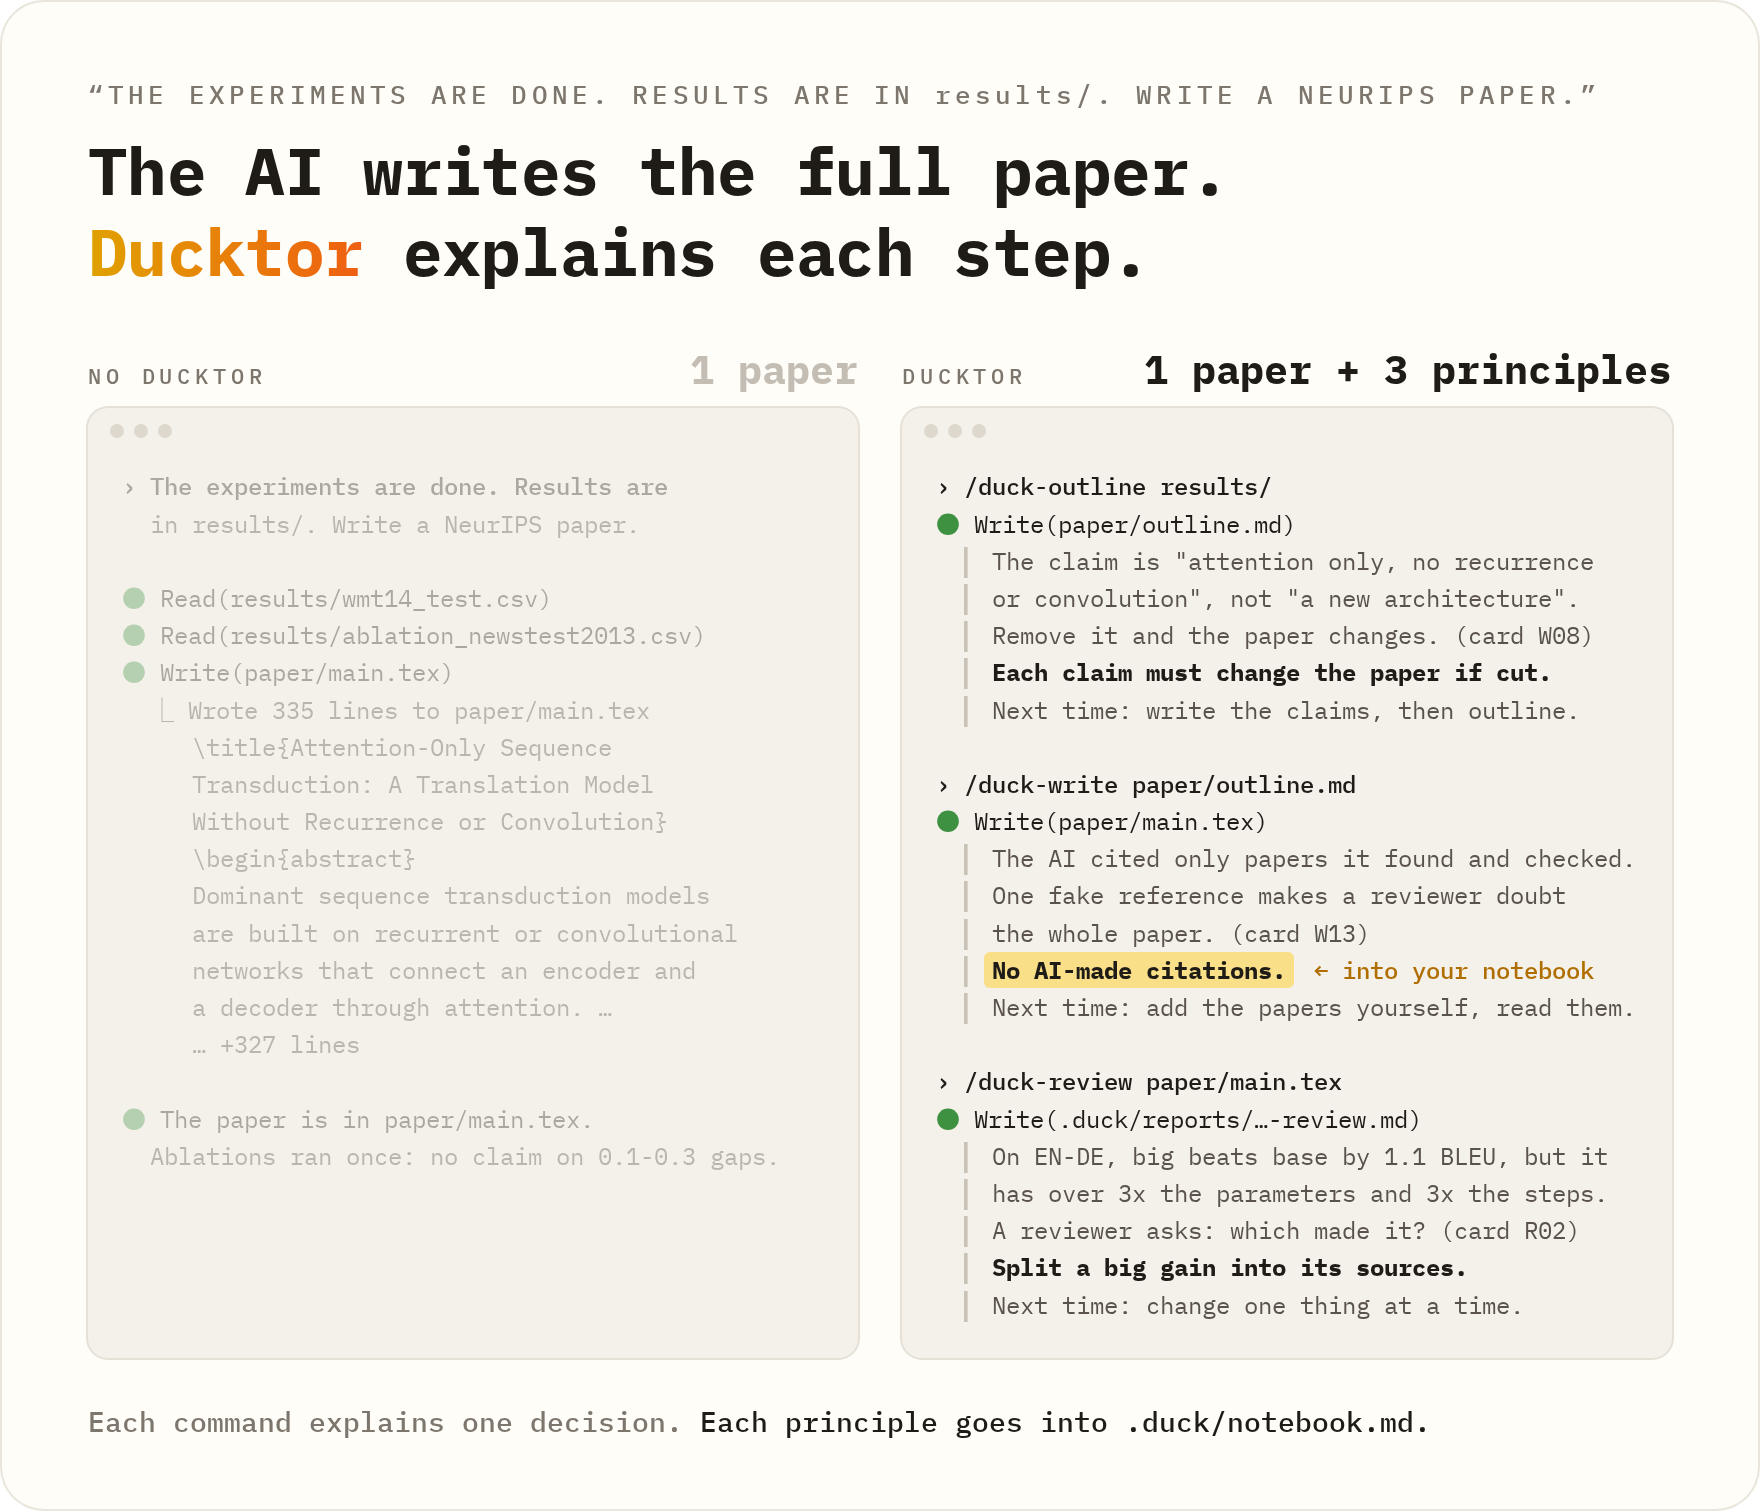
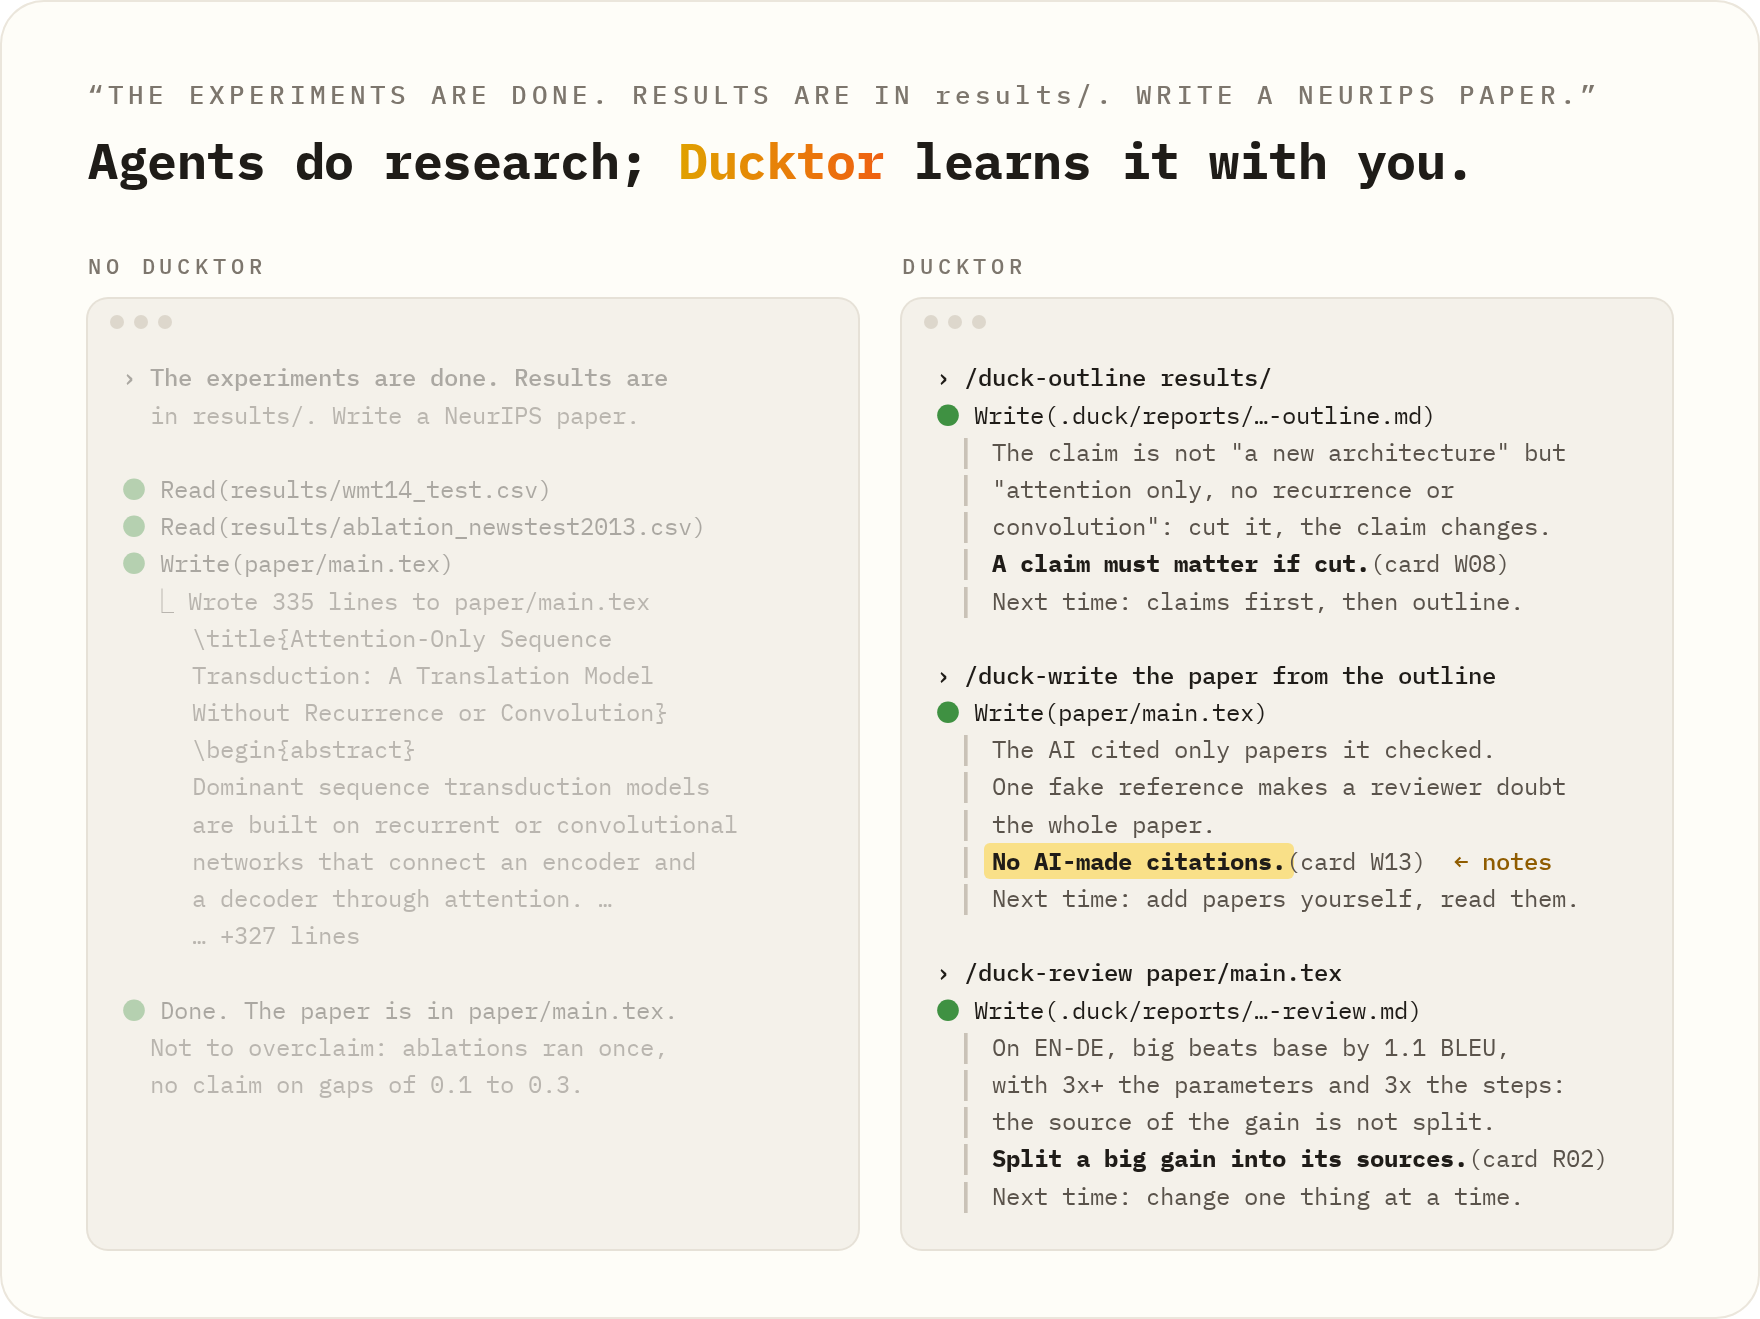
English demo and before/after picture redone from the 11-02 sources (anim-v5, ba-v5 with English text); README.en alt texts follow

diff --git a/i18n/README.en.md b/i18n/README.en.md
@@ -24,12 +24,12 @@
 </p>
 
 <p align="center">
-  <img src="../assets/demo.webp" width="880" alt="An illustration, not a screen recording. Two terminals get the same task: “The experiments are done. Results are in results/. Write a NeurIPS paper.” On the left, there is no Ducktor. The AI reads the results, writes paper/main.tex, and says that it is done. It adds that the ablations ran once, so it made no claim on gaps of 0.1 to 0.3. You get a paper. On the right, Ducktor is installed, but it is not turned on in this project. After the same work, you type /duck and see the menu. Then you type “/duck Can you tell me what to learn here?” Ducktor uses /duck-learn (look back) for this. It asks which step you decided, and you skip the question. Then it tells you the goal, the result, and what a top advisor would check. How it was written: the AI chose the 3 claims; write 1 to 3 claims before the paper (card W01). How to write it well: the AI drew no conclusion on gaps of 0.1 to 0.3; match your words to your evidence (card W11). How to convince a reviewer: on EN-DE, base beats MoE by only 1.3 BLEU; a gap must be larger than seed variation (card E05). Ducktor was not on, so there is no decision log. From the paper, the AI decided the claims, the wording, and the baselines. Ducktor saves the 3 principles to .duck/notebook.md.">
+  <img src="../assets/demo.webp" width="880" alt="An illustration, not a screen recording. Two terminals get the same task: “The experiments are done; results are in results/. Write it up as a NeurIPS paper.” On the left, without Ducktor, the AI quickly writes paper/main.tex and says it is done; it adds that, not to overclaim, the ablations ran once, so gaps of 0.1 to 0.3 get no conclusion. You get a paper. On the right, you first send /duck on to turn Ducktor on in this project: everyday work also gets the why and a decision log, and results are checked before they go into the paper. Then the same request. Ducktor reads the results, says it will write with /duck-write, and first asks: the ablations ran once and the 0.1 to 0.3 gaps were not compared with seed variation; add seeds first, or write first? You answer “You decide.” After writing, it explains why: write first, the ablations report numbers and draw no conclusion, so noise is not called a finding; each of the three claims maps to a section a reviewer can check. The decision line records three choices, all made by the AI. Then /duck-learn: it asks which step you decided and which you would redo; you skip. It gives the goal and what happened; what a top advisor checks is that a gap must beat seed variation (card E05, a built-in Ducktor card, not a paper), and the ablations ran once; it lists the judgments left to the AI, says you can ask to decide next time, and gives the next steps. The look-back goes into .duck/reports/ and the principle into the notebook. Last, /duck-why on the intro step: the part most worth learning is paragraph 2, which says what makes translation itself hard before giving the method, and maps each difficulty to a module (self-attention, positional encoding). Widom, Tips for Writing Technical Papers: the intro must say why it is hard. The principle “Map each difficulty to a module.” goes into the notebook, with what to do first next time. It ends by noting that the account of how it was done is inferred from the files and the conversation record.">
 </p>
 
 <p align="center">
   <sub><a href="../README.md">简体中文</a> · English</sub><br>
-  <sub>This file is a translation of the Chinese README. If the two files are different, the Chinese file is correct. The rules, the commands, and the experience cards are in Chinese, and we tested Ducktor mainly in Chinese. The English animation and picture are an earlier version than the Chinese ones.</sub>
+  <sub>This file is a translation of the Chinese README. If the two files are different, the Chinese file is correct. The rules, the commands, and the experience cards are in Chinese, and we tested Ducktor mainly in Chinese.</sub>
 </p>
 
 ---
@@ -57,7 +57,7 @@ The idea comes from <a href="https://en.wikipedia.org/wiki/Rubber_duck_debugging
 ## The core experience: before vs. after
 
 <p align="center">
-  <img src="../assets/before-after.png" width="880" alt="An illustration, not a screen recording. The same request: “The experiments are done. Results are in results/. Write a NeurIPS paper.” Without Ducktor, the AI reads the results and writes paper/main.tex. It says that the ablations ran once, so it made no claim on gaps of 0.1 to 0.3. You get a paper. With Ducktor, you use three commands. After each command, Ducktor explains one decision, gives one principle, and tells you what to do first next time. /duck-outline: each claim must change the paper if you cut it (card W08). /duck-write: the AI cited only papers that it found and checked; no AI-made citations (card W13). /duck-review: on EN-DE, big beats base by 1.1 BLEU, but it has over 3 times the parameters and 3 times the training steps; split a big gain into its sources (card R02). Each principle goes into .duck/notebook.md.">
+  <img src="../assets/before-after.png" width="880" alt="An illustration, not a screen recording. The same request: “The experiments are done. Results are in results/. Write a NeurIPS paper.” Headline: Agents do research; Ducktor learns it with you. Without Ducktor, the AI reads the results, writes paper/main.tex, and says it is done, without drawing a conclusion on gaps of 0.1 to 0.3. With Ducktor, the work goes through /duck-outline (card W08: a claim must matter if cut), /duck-write (card W13: no AI-made citations, highlighted and saved to the notebook) and /duck-review (card R02: split a big gain into its sources); each step gives the reason, a principle, and what to do first next time.">
 </p>
 
 When you give your experimental results to a regular AI to write the paper, the AI produces a first draft in one pass. **How to state the core contribution, how strong the wording of a conclusion may be, whether the baselines are reasonable**: the model decides all of these by itself, inside a black box. You may get a fluent draft, but you miss the most important training in method, and you plant problems for the later review.
